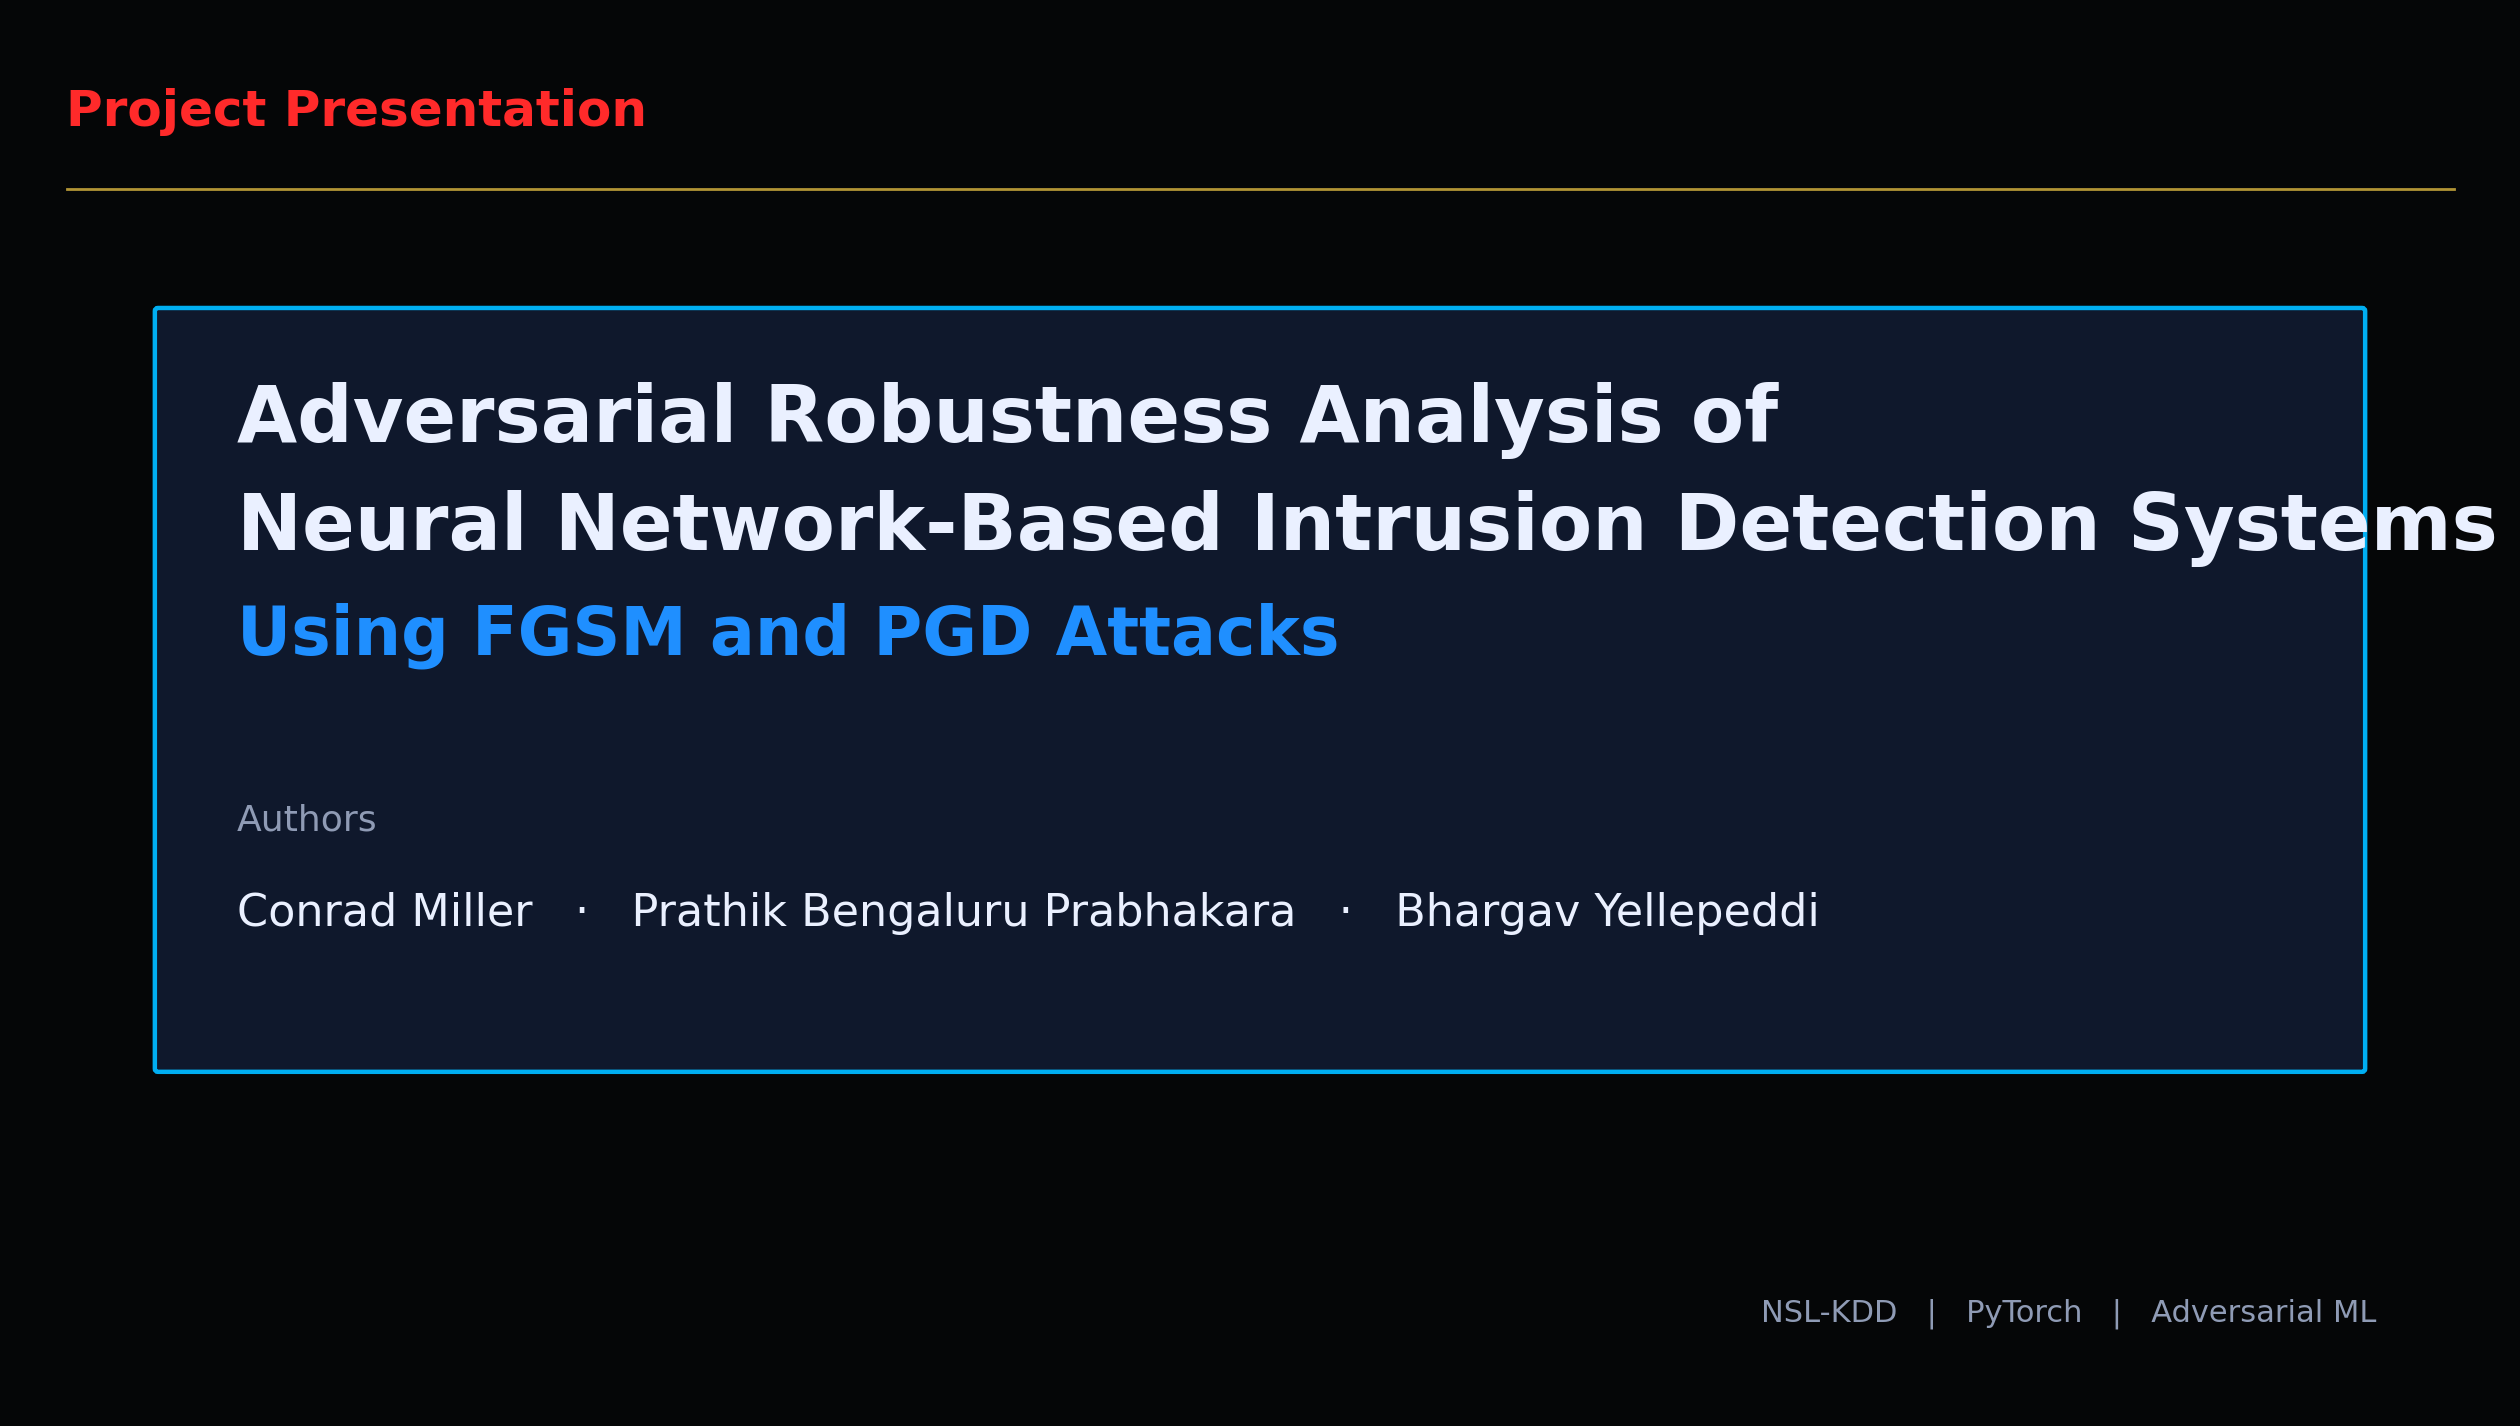
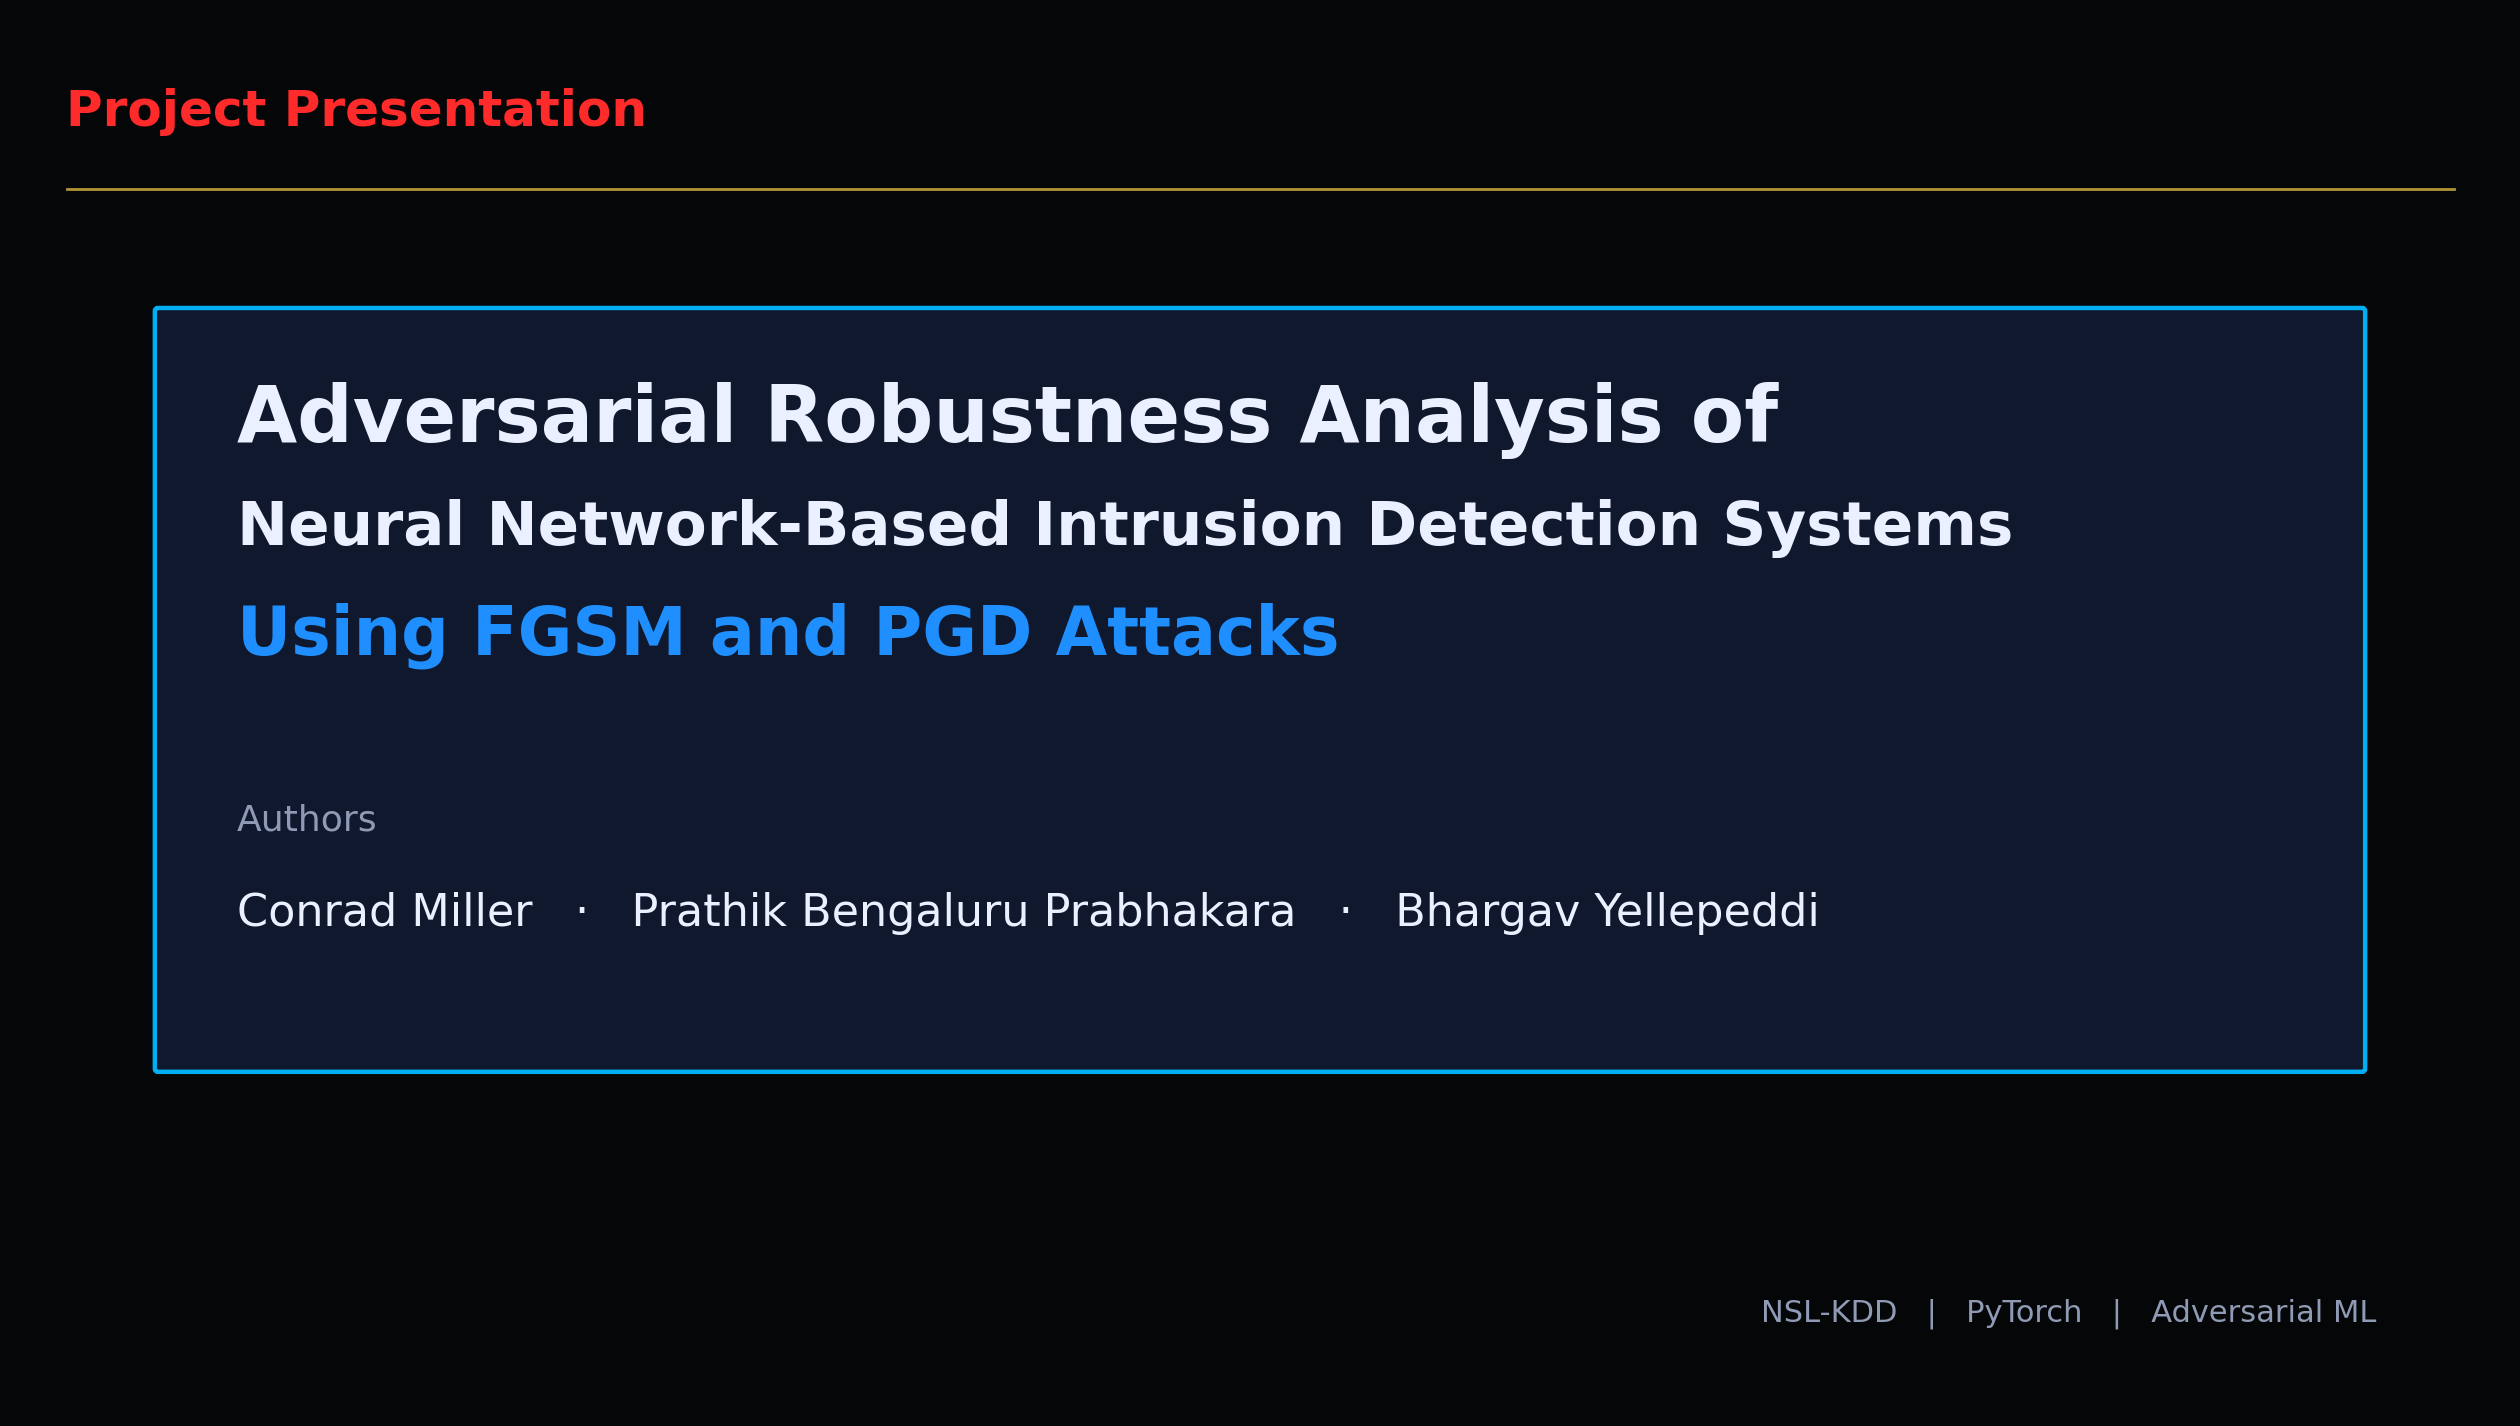
Fix text overflow on title slide and slide 14 panels

Changed region(s): [[0.0929, 0.3394, 0.9905, 0.4011]]

diff --git a/presentation/scripts/generate_bhargav_visuals.py b/presentation/scripts/generate_bhargav_visuals.py
@@ -91,7 +91,7 @@ def slide1_title() -> None:
     ax.text(
         1.4, 5.7,
         "Neural Network-Based Intrusion Detection Systems",
-        color=TEXT_MAIN, fontsize=28, fontweight="bold", va="center",
+        color=TEXT_MAIN, fontsize=22, fontweight="bold", va="center",
     )
     ax.text(
         1.4, 5.0,
@@ -283,26 +283,45 @@ def slide14_challenges() -> None:
     ]
 
     # Two-column layout: 3 left, 2 right
-    col_x = [1.0, 8.4]
-    row_y = [6.0, 4.0, 2.0]
+    # Axis: ylim(0,9), divider at y=7.9 → usable area: 0.3 – 7.75
+    # Left col: 3 cards filling the full usable height
+    # Right col: 2 cards vertically centered on the same span
+    col_x  = [0.4, 8.2]
+    col_w  = 7.3
+    BOTTOM = 0.35
+    TOP    = 7.75
 
-    positions = [
-        (col_x[0], row_y[0]),
-        (col_x[0], row_y[1]),
-        (col_x[0], row_y[2]),
-        (col_x[1], row_y[0]),
-        (col_x[1], row_y[1]),
+    panel_h_L = (TOP - BOTTOM - 2 * 0.25) / 3   # ≈ 2.27
+    gap_L     = 0.25
+
+    # Left column row bottoms (top card first)
+    left_rows = [
+        TOP - panel_h_L,
+        TOP - panel_h_L - (panel_h_L + gap_L),
+        BOTTOM,
     ]
 
-    for (glyph, color, title, body), (x, y) in zip(items, positions):
-        # Icon circle
-        _panel(ax, x, y, 6.5, 1.6, color)
-        _icon_circle(ax, x + 0.6, y + 0.8, 0.45, color, glyph)
-        # Title
-        ax.text(x + 1.5, y + 1.1, title, fontsize=15,
+    # Right column: 2 cards, same gap, centered on [BOTTOM, TOP]
+    total_right = 2 * panel_h_L + gap_L
+    r_start = BOTTOM + (TOP - BOTTOM - total_right) / 2
+    right_rows = [r_start + panel_h_L + gap_L, r_start]
+
+    positions = [
+        (col_x[0], left_rows[0]),
+        (col_x[0], left_rows[1]),
+        (col_x[0], left_rows[2]),
+        (col_x[1], right_rows[0]),
+        (col_x[1], right_rows[1]),
+    ]
+
+    panel_hs = [panel_h_L, panel_h_L, panel_h_L, panel_h_L, panel_h_L]
+
+    for (glyph, color, title, body), (x, y), ph in zip(items, positions, panel_hs):
+        _panel(ax, x, y, col_w, ph, color)
+        _icon_circle(ax, x + 0.7, y + ph / 2, 0.52, color, glyph)
+        ax.text(x + 1.65, y + ph * 0.72, title, fontsize=13,
             fontweight="bold", color=TEXT_MAIN, va="center")
-        # Body
-        ax.text(x + 1.5, y + 0.35, body, fontsize=11,
+        ax.text(x + 1.65, y + ph * 0.32, body, fontsize=10,
             color=TEXT_MID, va="center")
 
     _save(fig, "slide14_challenges.png")
